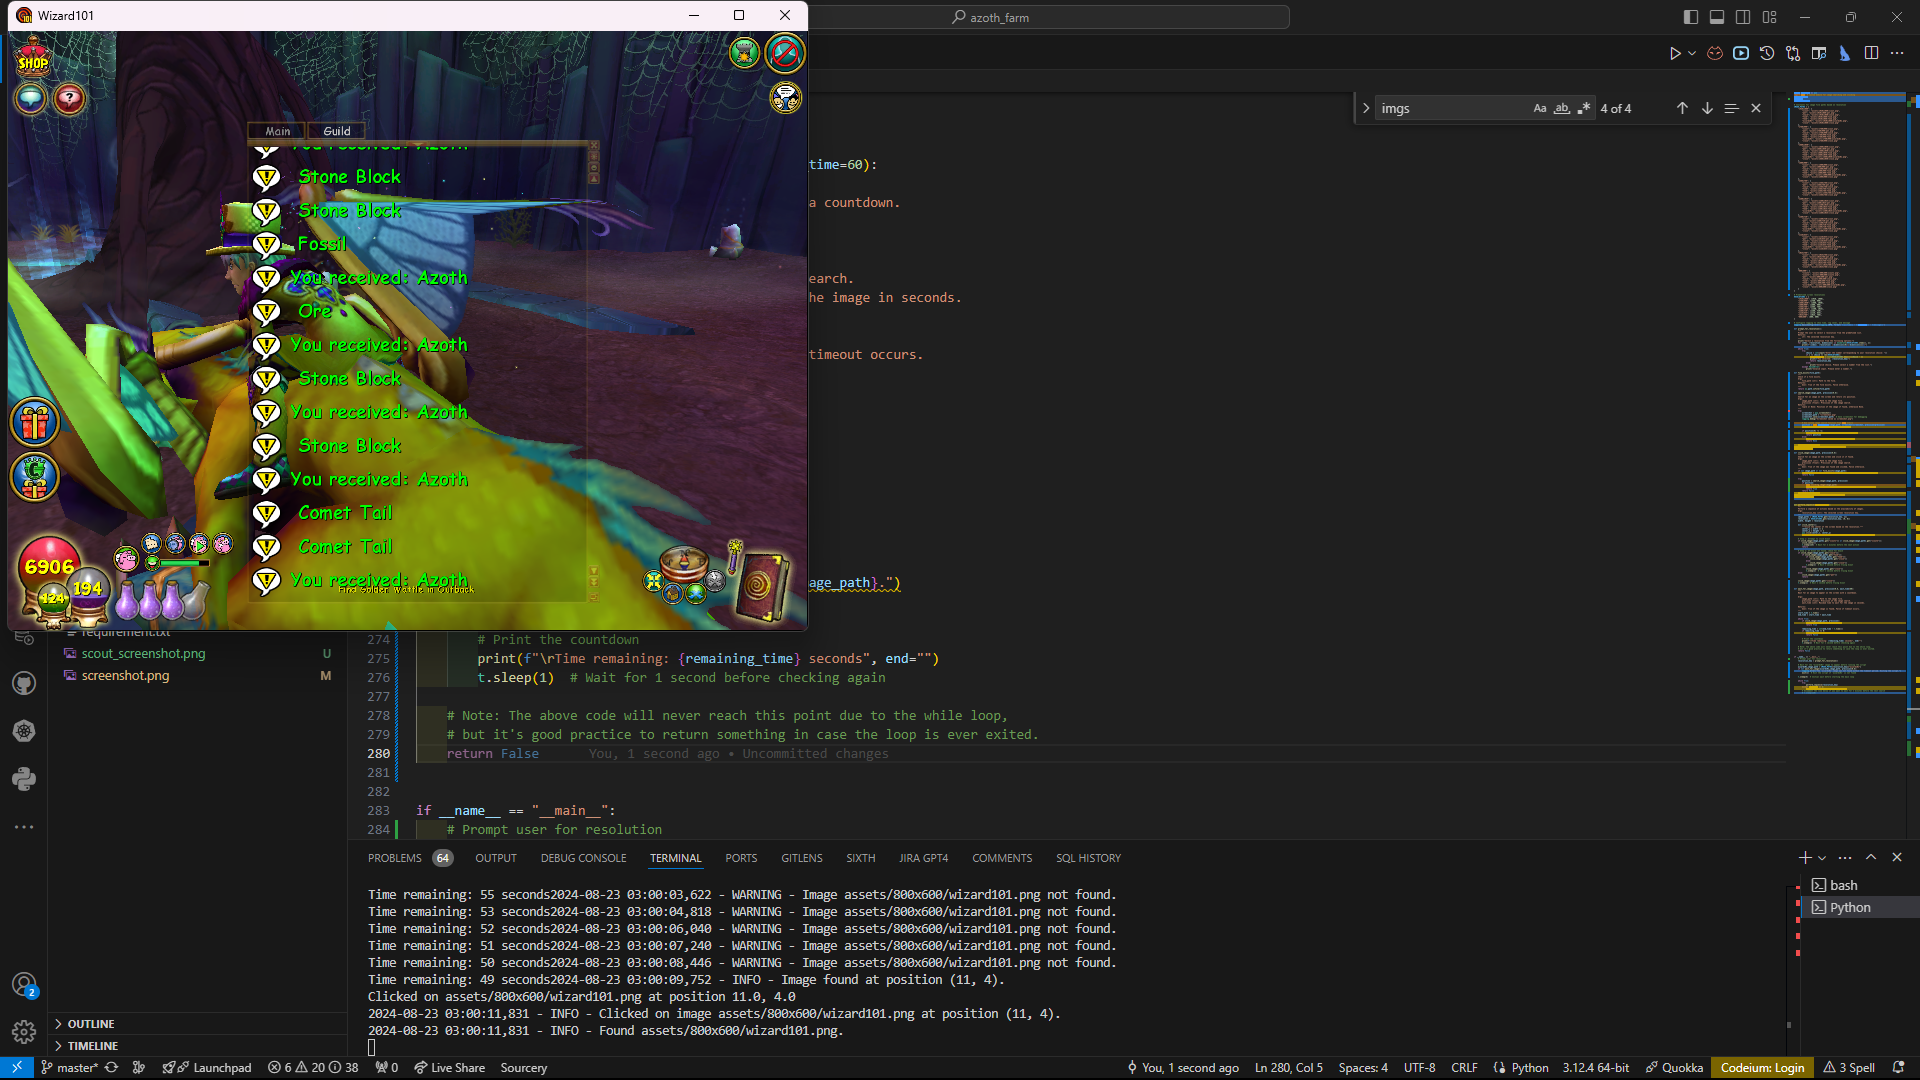
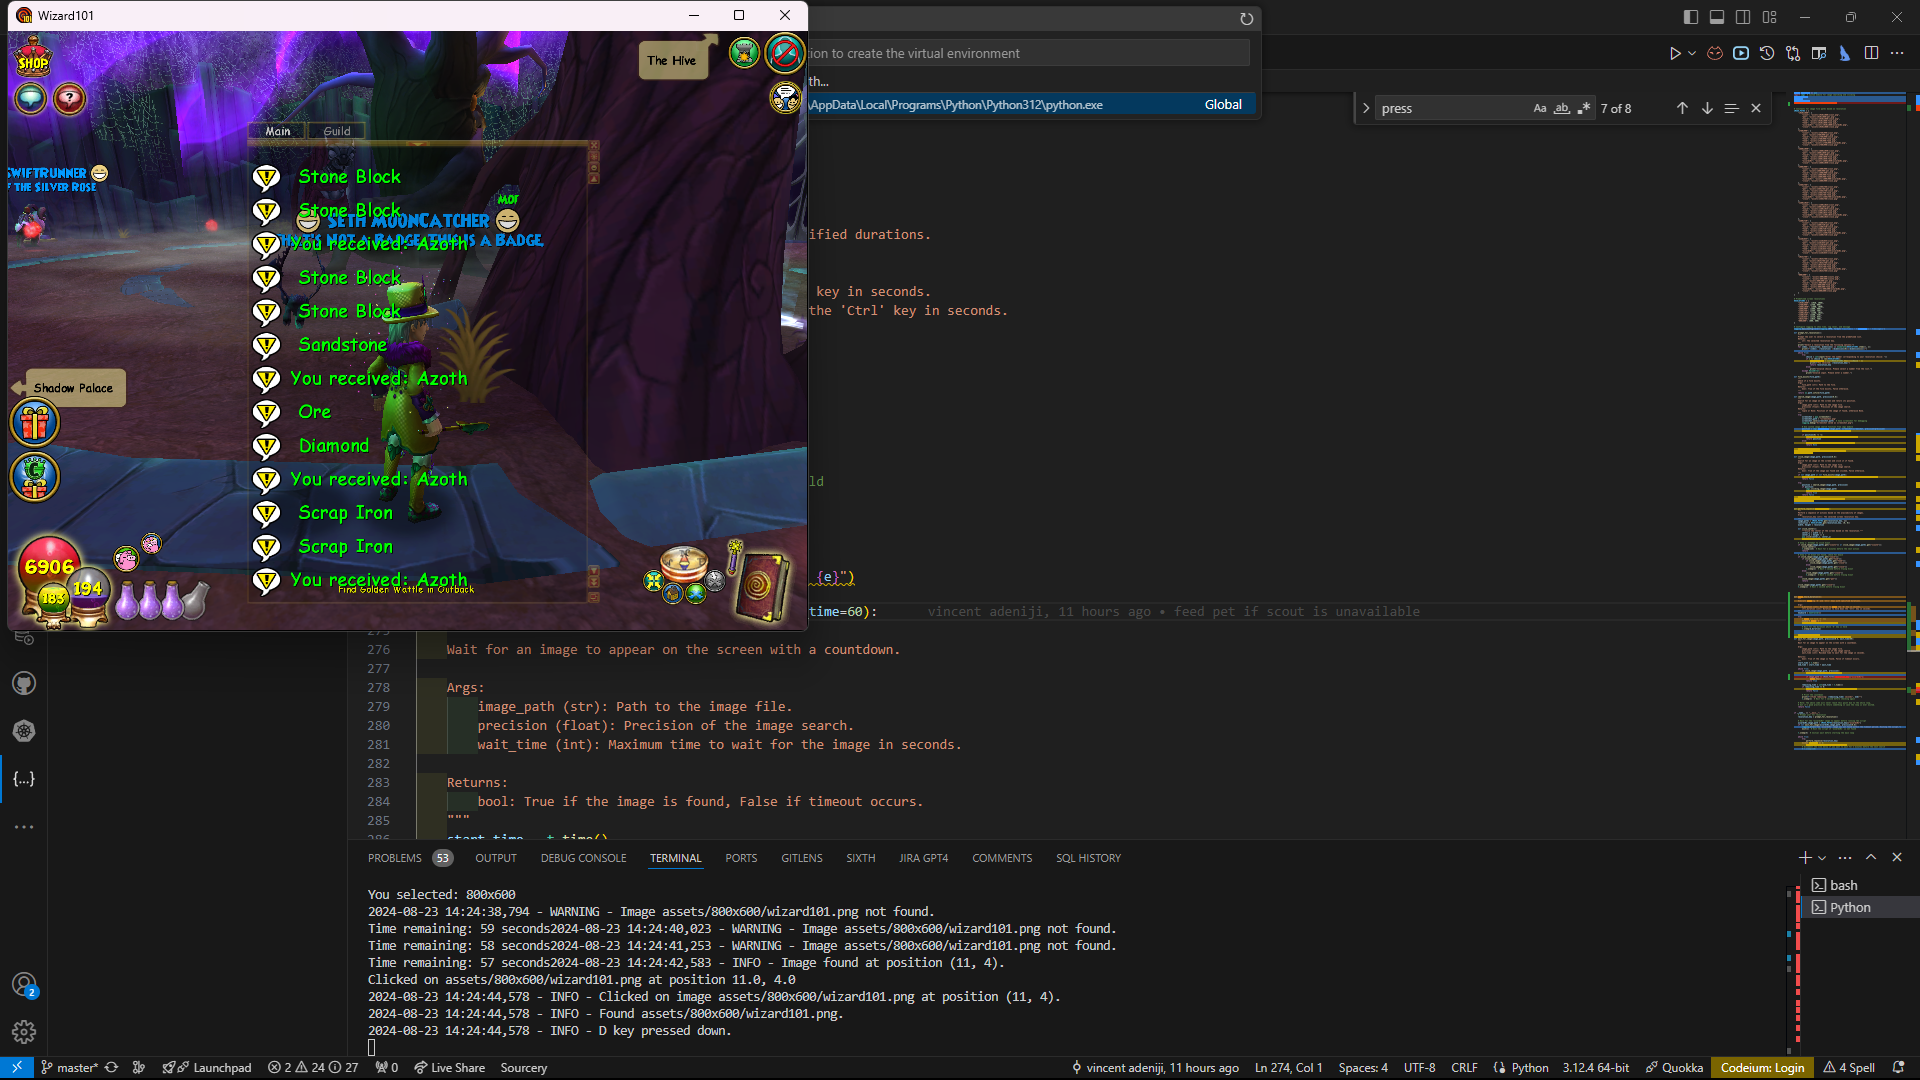
wait for image updated

diff --git a/azoth.py b/azoth.py
@@ -3,6 +3,8 @@ import imgs  # Custom module for image searching and clicking
 import logging
 import os
 import time as t
+from pynput.keyboard import Key, Controller
+
 
 # Constants for image file paths based on resolution
 IMAGE_PATHS = {
@@ -246,6 +248,29 @@ def perform_sequence(resolution_key):
     t.sleep(1)  # Wait 1 second before trying Scout
 
 
+
+
+def press_key(d_duration=2):
+    """
+    Simulate pressing 'D' and 'Ctrl' keys with specified durations.
+    
+    Args:
+        d_duration (int): Duration to press the 'D' key in seconds.
+        ctrl_duration (int): Duration to hold down the 'Ctrl' key in seconds.
+    """    
+    keyboard = Controller()
+    
+    try:
+        # Press and hold 'D' key
+        keyboard.press('d')
+        logging.info(f"D key pressed down.")
+        
+        # Wait for the duration while 'D' key is held
+        t.sleep(d_duration)
+        
+        
+    except Exception as e:
+        logging.error(f"Error in press_d_then_ctrl: {e}")
 def wait_for_image(image_path, precision=0.8, wait_time=60):
     """
     Wait for an image to appear on the screen with a countdown.
@@ -264,6 +289,9 @@ def wait_for_image(image_path, precision=0.8, wait_time=60):
     while True:
         if click_image(image_path, precision):
             logging.info(f"Found {image_path}.")
+            
+            if image_path == IMAGE_PATHS[resolution_key]["wizard101"]:
+                press_key()
             return True
 
         remaining_time = int(end_time - t.time())
